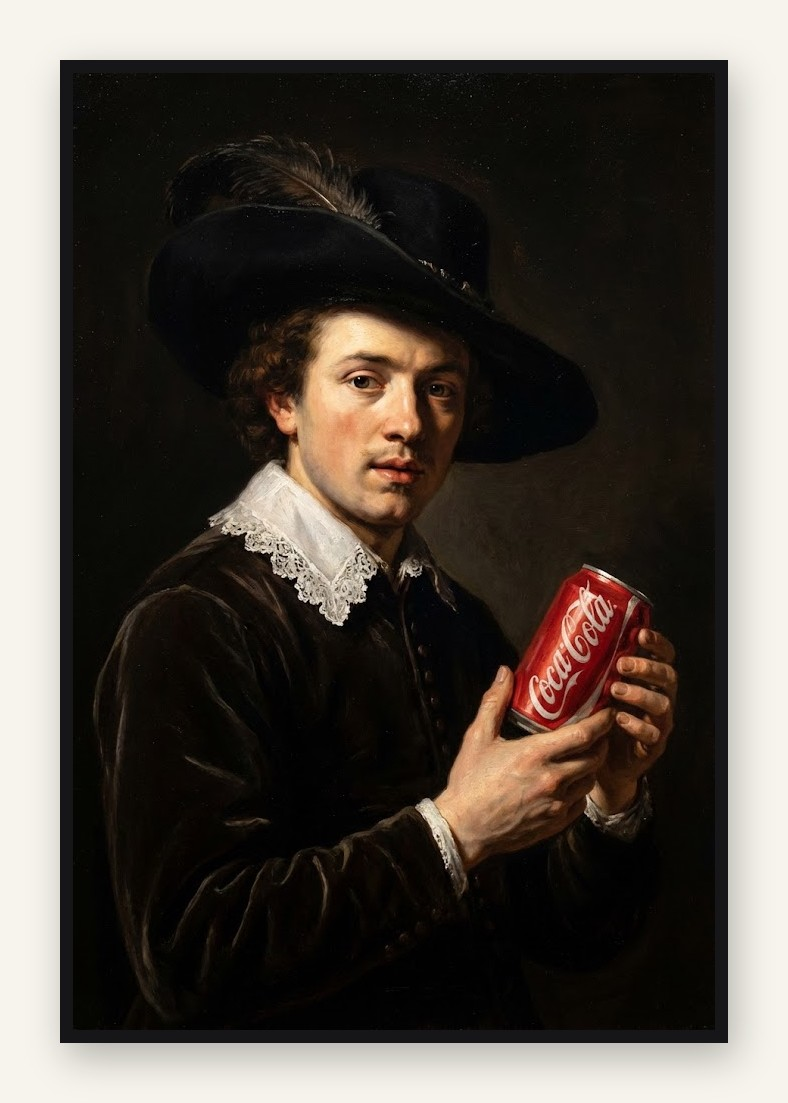
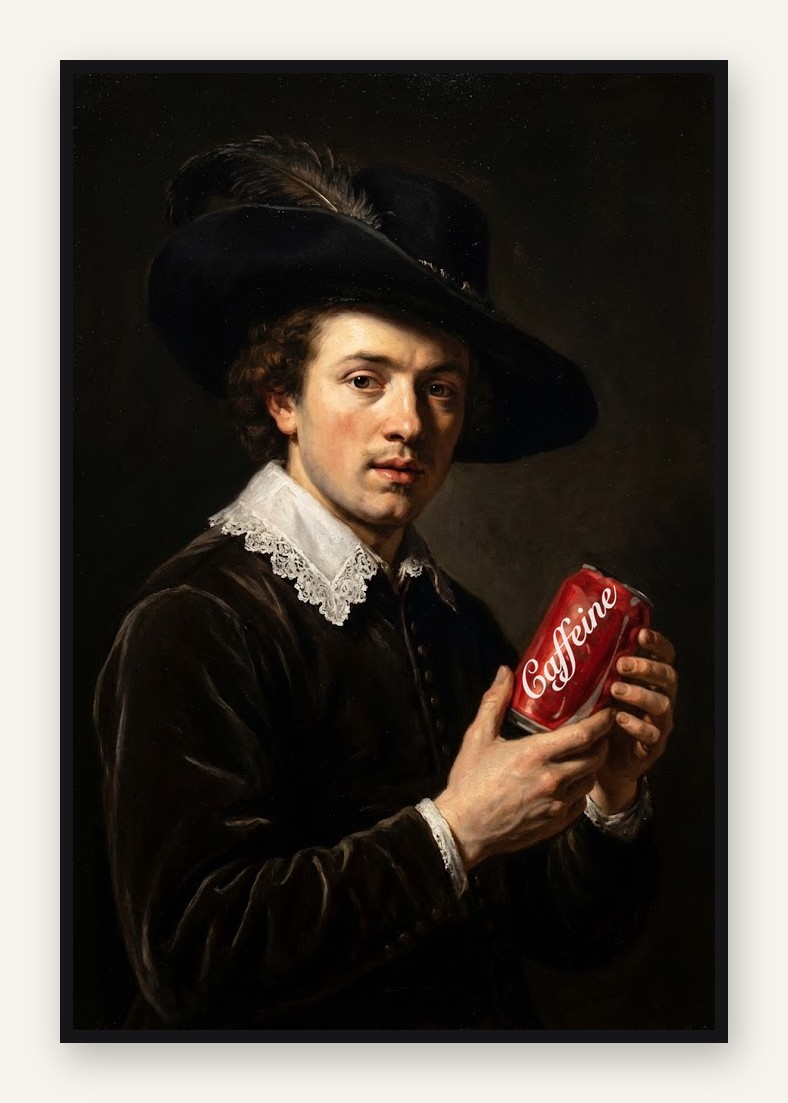
Old Habits: lifestyle photo with Caffeine can; retouch can label to 'Caffeine' on product, lit, original and share-card images

Changed region(s): [[0.6701, 0.524, 0.8223, 0.6473]]

diff --git a/data/images.ts b/data/images.ts
@@ -51,7 +51,7 @@ export const IMAGES: Record<string, ImageMeta> = {
   "/lifestyle/pickleball-1.webp": { alt: "Pickleball Shadow Box with two paddles and balls, hanging on a wall at home" },
   "/lifestyle/pickleball-2.webp": { alt: "Pickleball Shadow Box on a green court with a club name, hanging on a wall at home" },
   "/lifestyle/pickleball-3.webp": { alt: "Pickleball Shadow Box on a sage-green court, hanging on a wall at home" },
-  "/lifestyle/old-habits-1.webp": { alt: "Old Habits lit in a warm living room: a backlit Old Master portrait of a man in a feathered hat holding a can of cola, glowing on the wall" },
+  "/lifestyle/old-habits-1.webp": { alt: "Old Habits lit in a warm living room: a backlit Old Master portrait of a man in a feathered hat holding a can of Caffeine cola, glowing on the wall" },
   "/objects/old-habits.webp": { alt: "Old Habits: old-master portrait of a man in a hat and lace collar holding a red drinks can, in an LED slim frame (unlit)" },
   "/objects/old-habits-lit.webp": { alt: "Old Habits: old-master portrait print in an LED slim frame (lit)" },
   "/lifestyle/smoke-and-feathers-1.webp": { alt: "Smoke & Feathers lit in a warm living room: a backlit portrait with a macaw and orchids glowing on the wall" },
